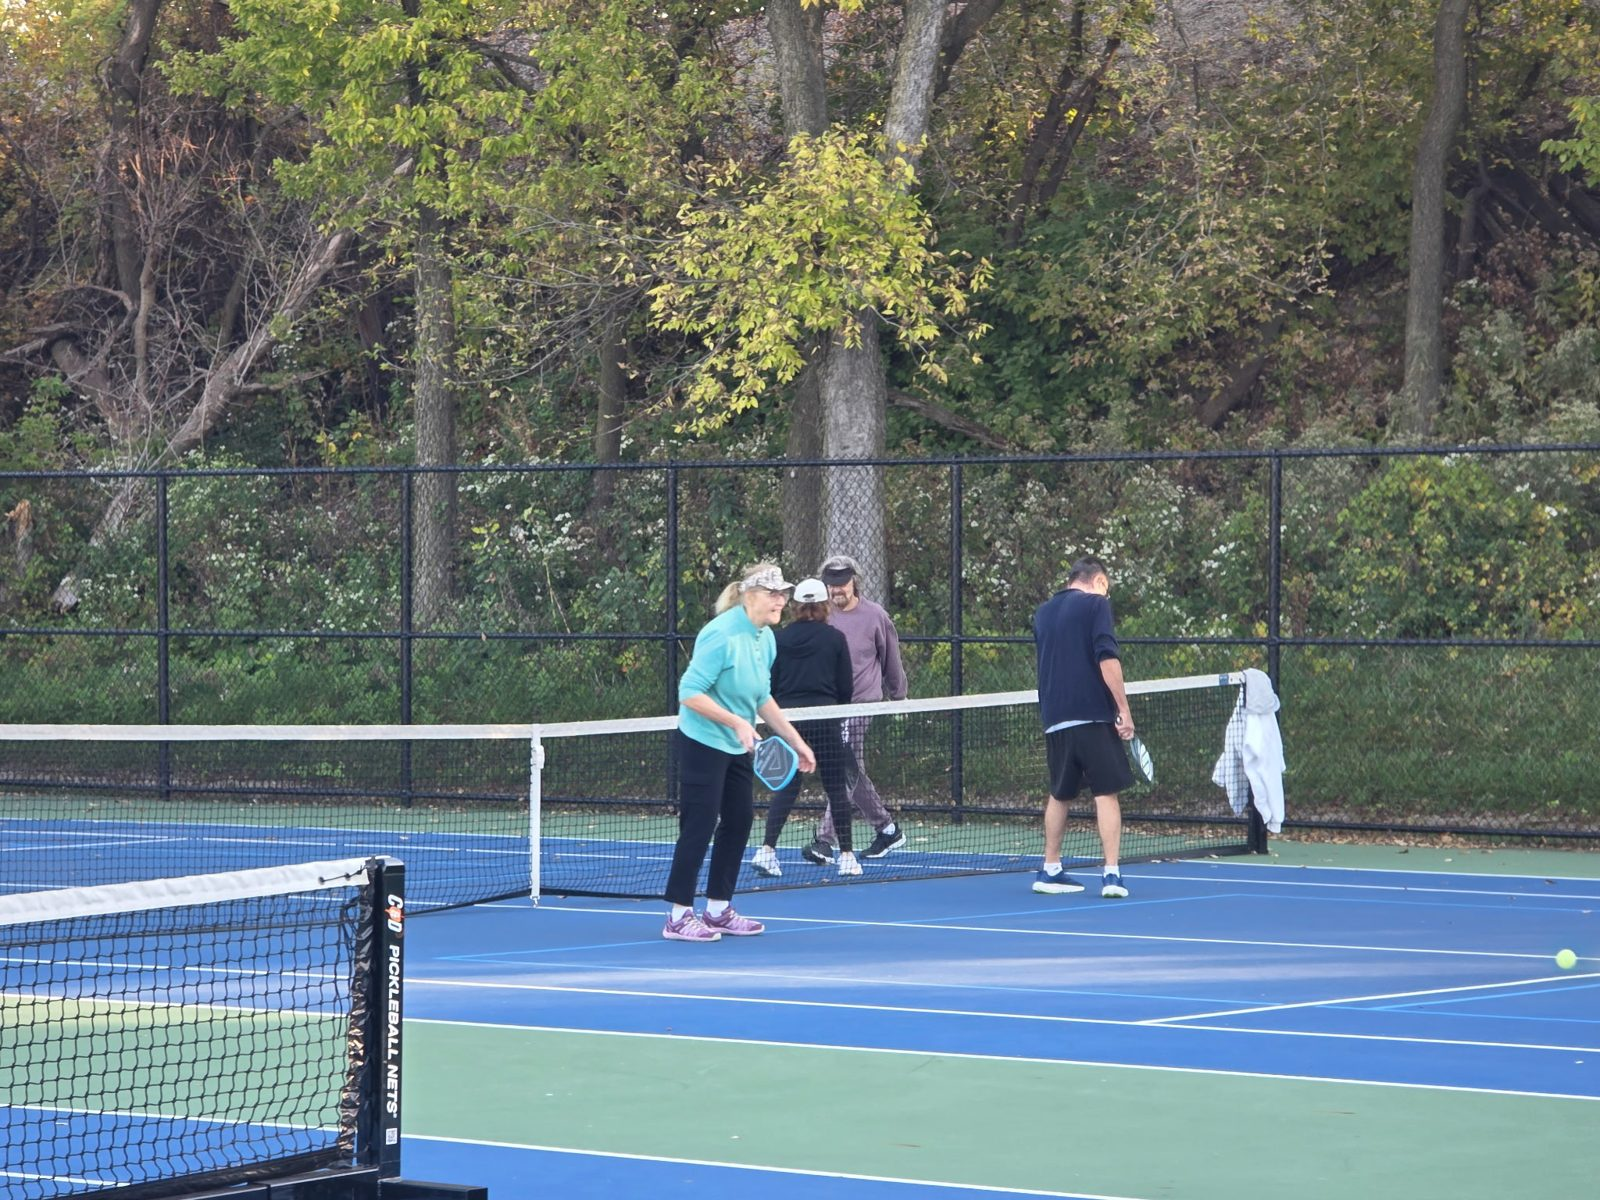
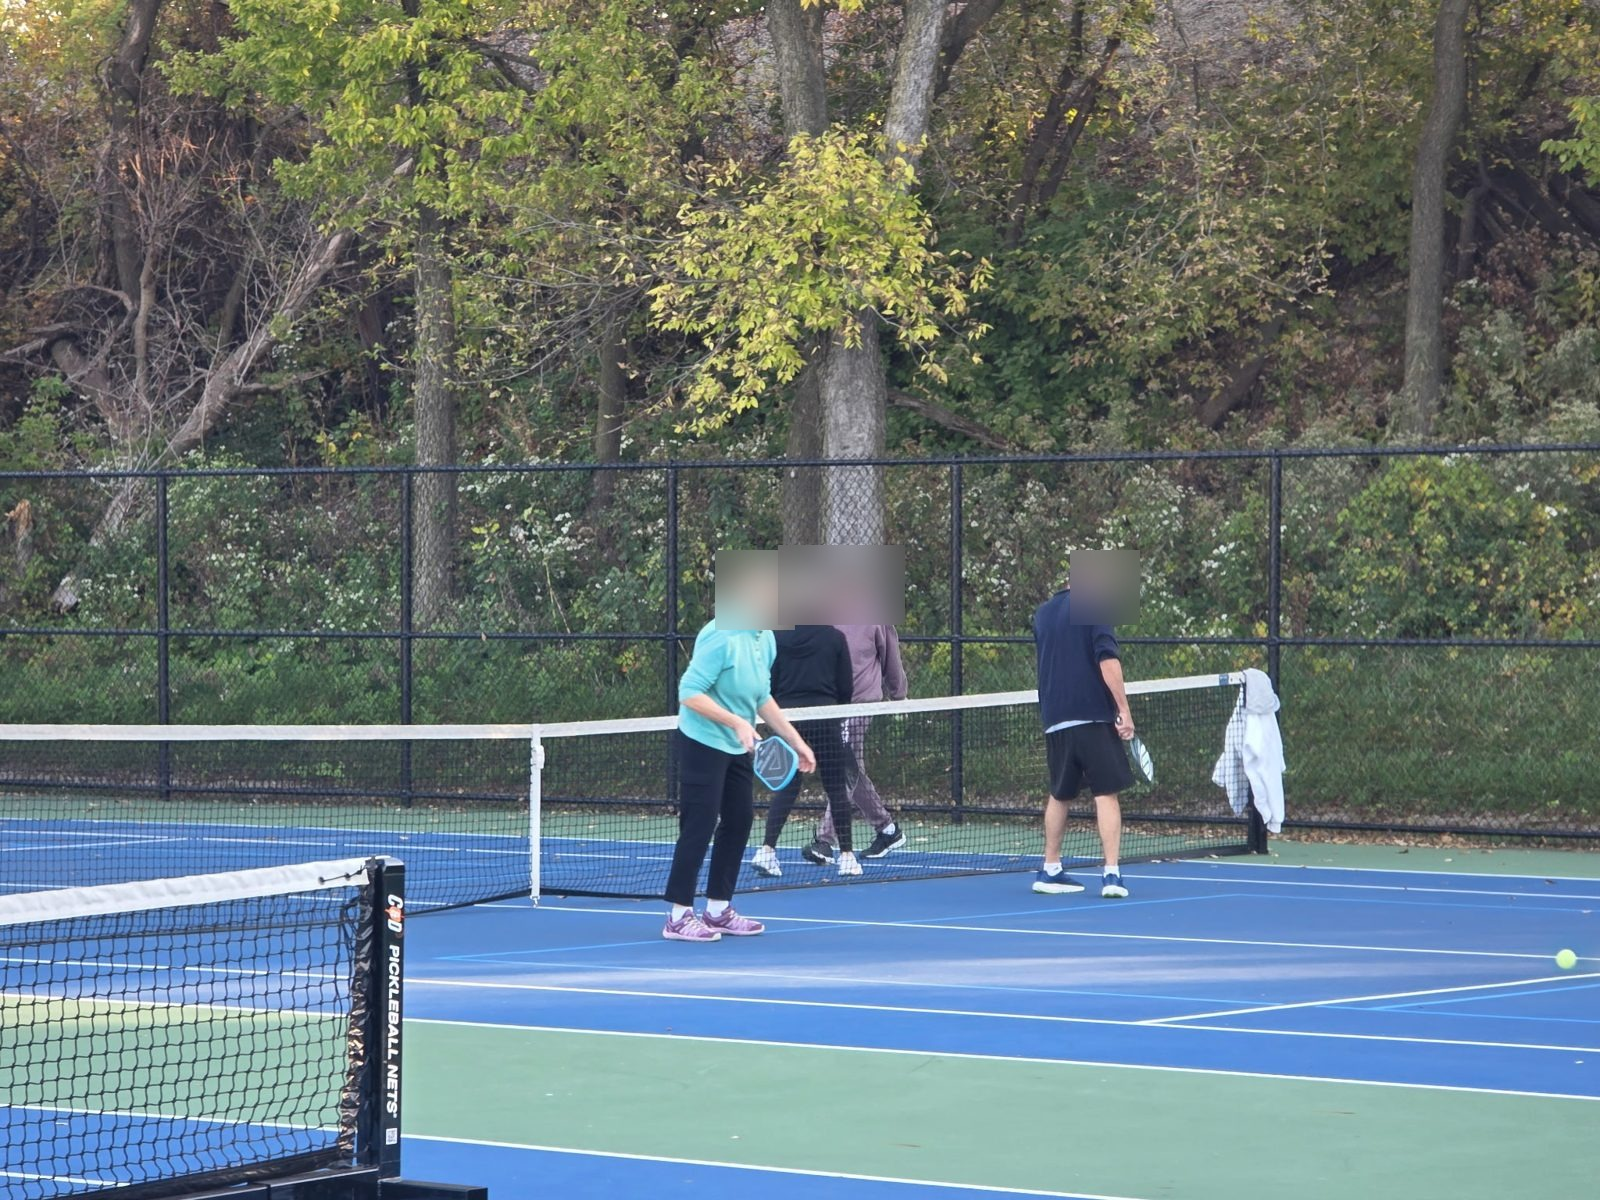
Remove Halloween photos, blur faces on remaining pickleball post photos
Removed the last two images (halloween-group.jpg, halloween-trio.jpg)
and their surrounding Photo components -- a bar full of named friends
in costume is more identifying than the rest of the post's action
shots, so cut rather than blurred.

Blurred faces on the 4 remaining photos (hero, forehand, between-games,
friends) -- these are real private individuals (a specific local
pickleball group), not a public festival crowd, so faces are blurred
throughout before this goes out publicly. Used OpenCV's Haar cascade
to get a starting set of candidate face boxes, then verified every one
against a pixel-coordinate grid overlaid on each actual image rather
than trusting the detector blindly -- it both missed real faces (the
swing-action shot's main subject wasn't detected at all) and flagged
false positives (tree bark, foliage, a net post). Final boxes were
hand-confirmed per image before applying a Gaussian blur, with a test
pass saved and visually reviewed before touching the real files.

Also fixed a real bug found along the way: the alt text on the
forehand.jpg and between-games.jpg photos was swapped relative to
their actual content (forehand.jpg is actually the wide
players-near-the-net shot; between-games.jpg is actually the
mid-swing action shot) -- corrected both to describe what's actually
in each image.

Build-verified (214/214) before committing.

Changed region(s): [[0.4375, 0.4317, 0.5625, 0.5242], [0.6562, 0.4625, 0.7188, 0.5242]]

diff --git a/app/blog/morning-pickleball-river-forest/page.tsx b/app/blog/morning-pickleball-river-forest/page.tsx
@@ -171,7 +171,7 @@ export default function MorningPickleballPost() {
 
         <Photo
           src={`${IMG}-forehand.jpg`}
-          alt="A player in a turquoise sweater hitting a forehand on the River Forest courts"
+          alt="Four players pausing near the net between points on the River Forest courts"
           width={1600}
           height={1200}
         />
@@ -189,7 +189,7 @@ export default function MorningPickleballPost() {
 
         <Photo
           src={`${IMG}-between-games.jpg`}
-          alt="Players walking to switch sides between games on the outdoor courts"
+          alt="A player in a turquoise sweater hitting a forehand on the River Forest courts"
           width={1600}
           height={1200}
         />
@@ -230,17 +230,6 @@ export default function MorningPickleballPost() {
           Seeing everyone in costume, laughing just as hard as we do at 7:30 in the morning, reminded me
           that this group isn&apos;t really about pickleball. It&apos;s about each other.
         </p>
-
-        <Photo
-          src={`${IMG}-halloween-group.jpg`}
-          alt="The pickleball group in Halloween costumes at Robert's Westside in Forest Park"
-          width={1600}
-          height={899}
-        />
-        <TallPhoto
-          src={`${IMG}-halloween-trio.jpg`}
-          alt="A pirate, a fortune teller, and an artist from the group posing together at the Halloween party"
-        />
 
         <h2 className={H2}>Why I&apos;d Tell Anyone Over 50 to Try It</h2>
         <ul className={UL}>
